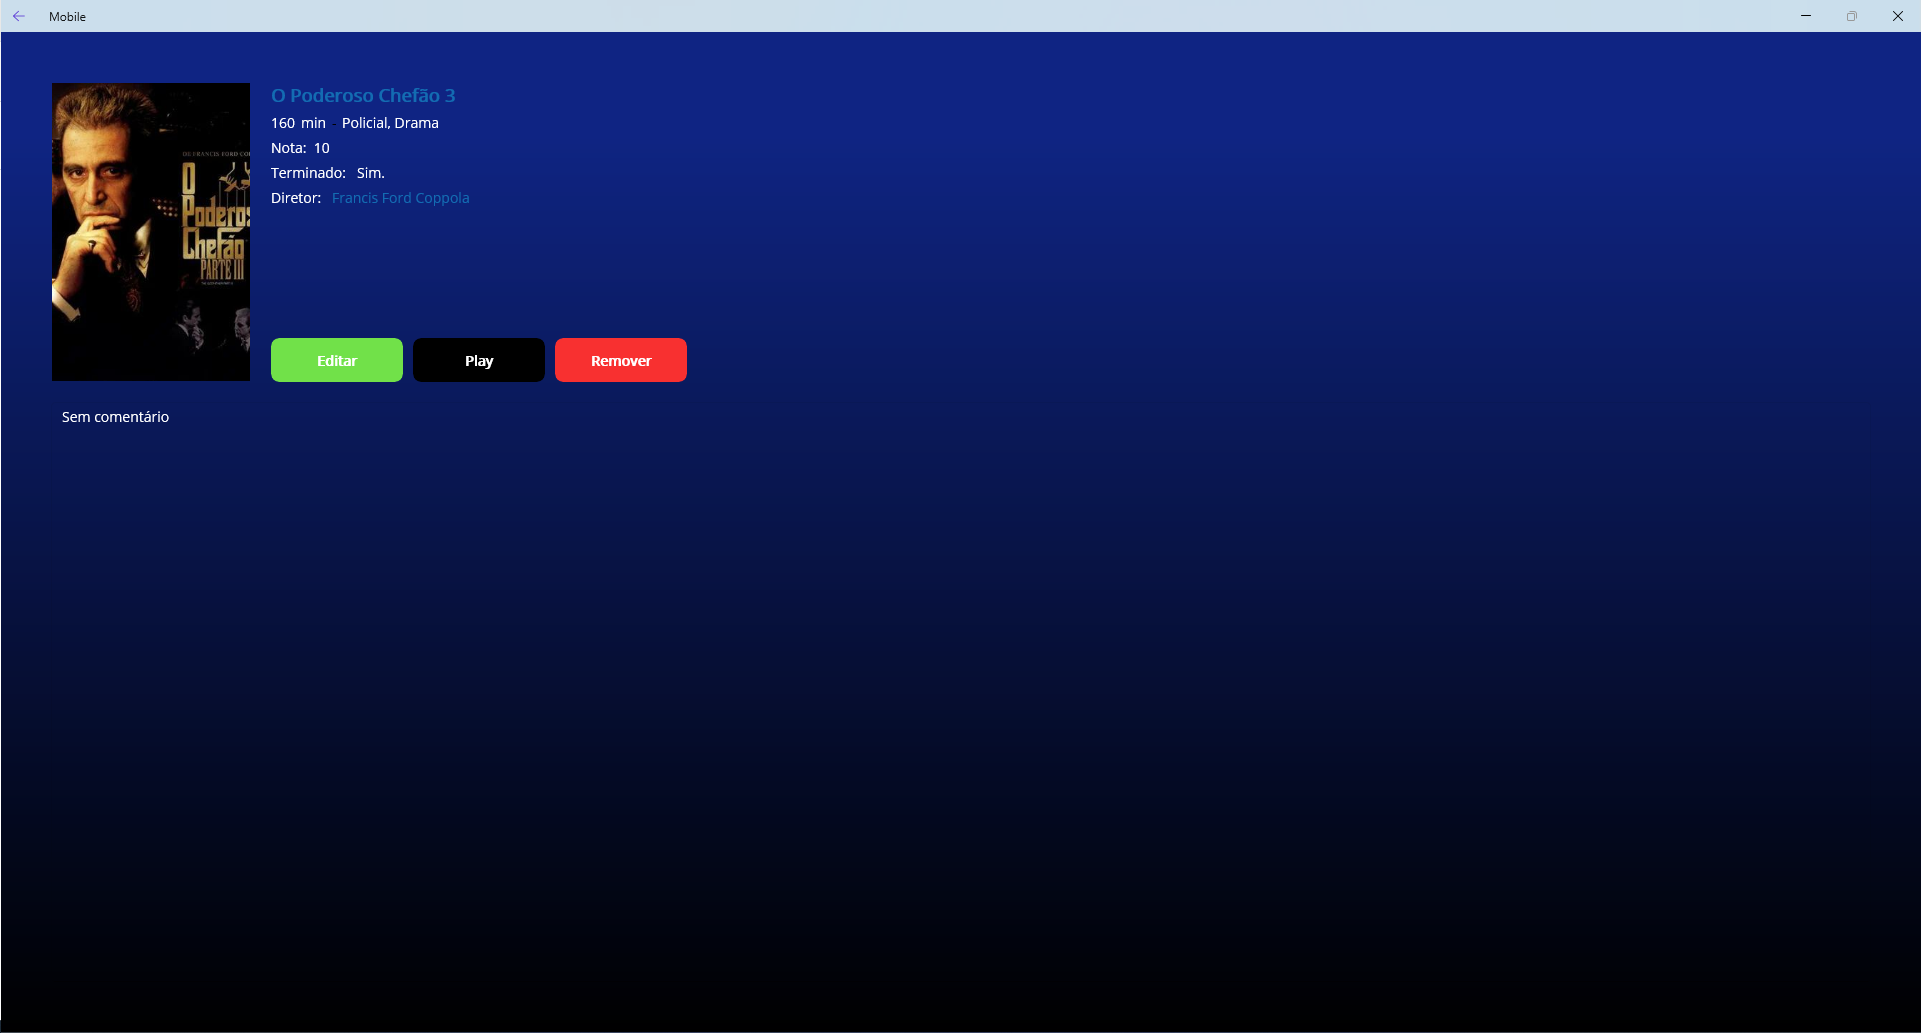
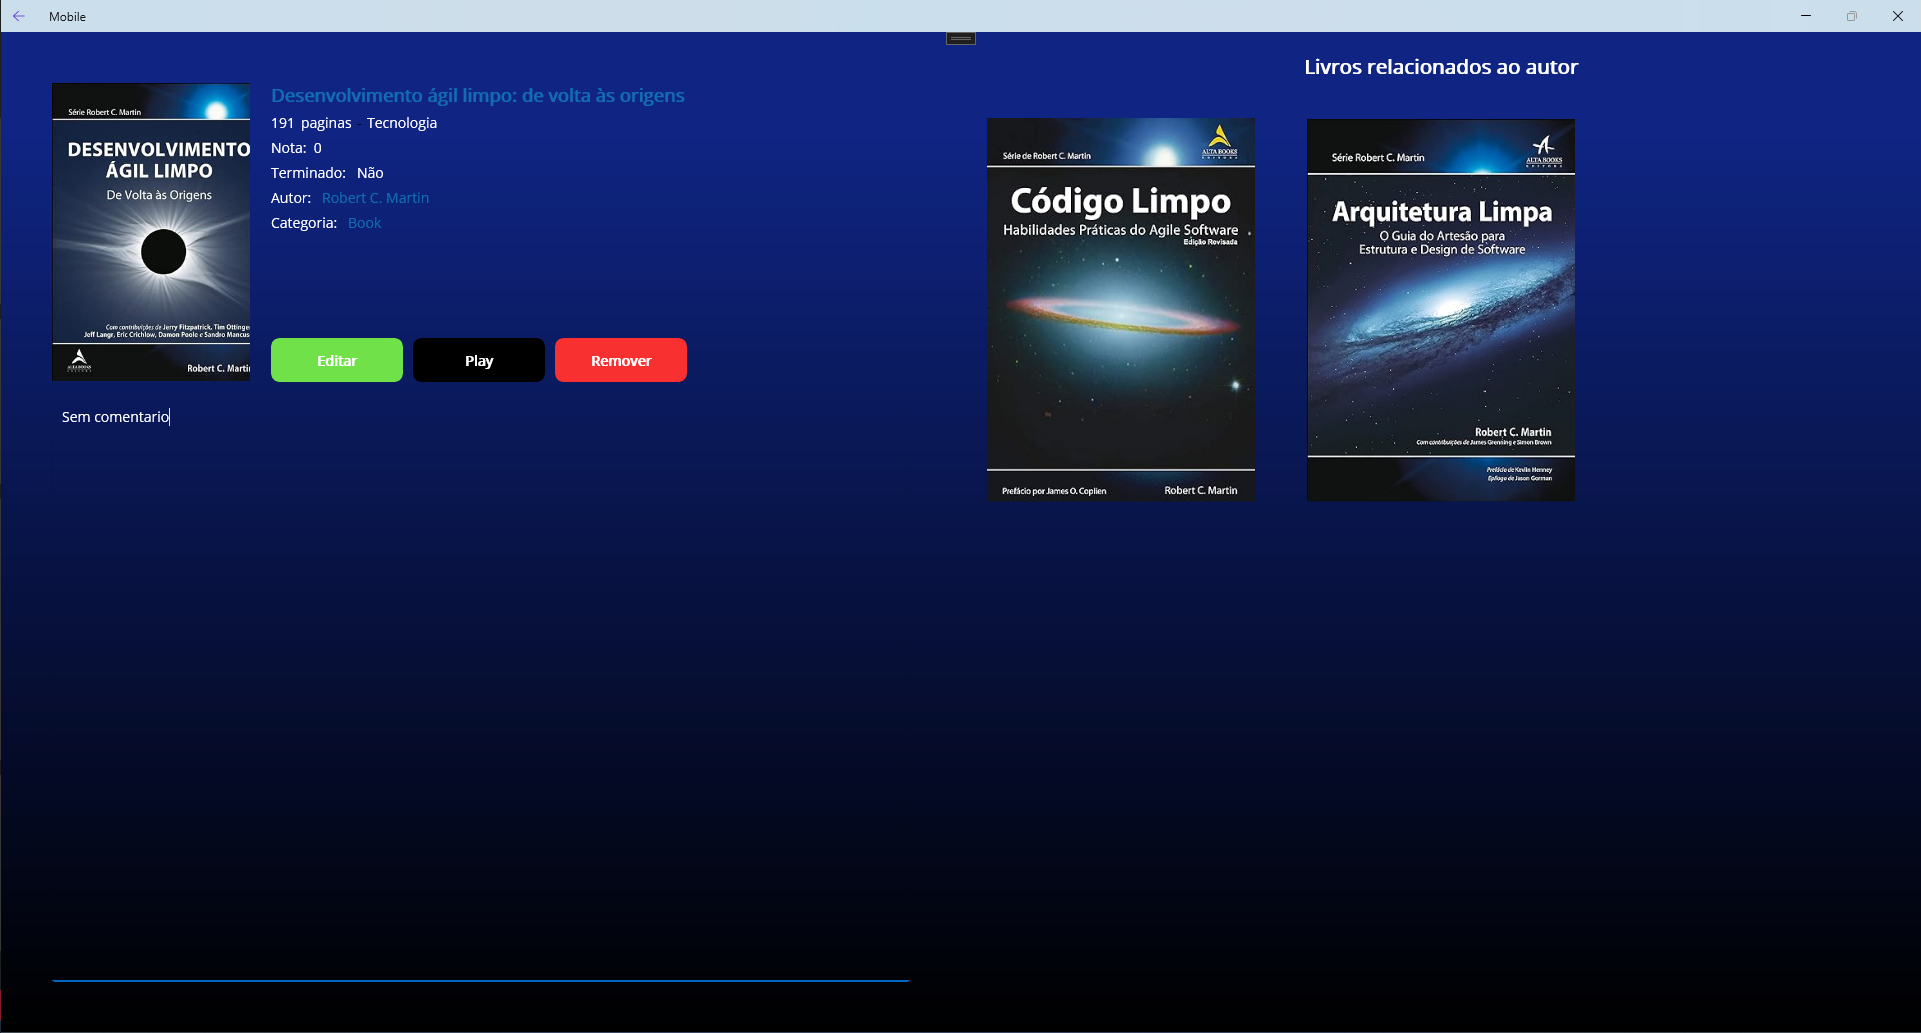
Resumo,
Adicionei a tela de detalhes a lista de livros, filmes e etc..

diff --git a/Mobile/Views/DetailsPage.xaml b/Mobile/Views/DetailsPage.xaml
@@ -15,7 +15,7 @@
         <converters:AuthorValueConverter x:Key="AuthorValueConverter"/>
     </ContentPage.Resources>
     <ScrollView>
-        <Grid ColumnDefinitions="*">
+        <Grid ColumnDefinitions="*,*">
             <Grid.Background>
                 <LinearGradientBrush EndPoint="0,1">
                     <GradientStop Color="#1534BC"
@@ -155,6 +155,36 @@
                        Style="{StaticResource TitleDetalhes}"/>
             </Grid>
 
+            <Grid Grid.Column="1">
+                <CollectionView ItemsSource="{Binding Assessments}">
+                    <CollectionView.ItemsLayout>
+                        <GridItemsLayout Orientation="Vertical" Span="3" VerticalItemSpacing="10"/>
+                    </CollectionView.ItemsLayout>
+                    <CollectionView.Header>
+                        <Label Text="Livros relacionados ao autor"
+                               HorizontalOptions="Center"
+                               Margin="20"
+                               TextColor="White"
+                               FontAttributes="Bold"
+                               FontSize="20"/>
+                    </CollectionView.Header>
+                    <CollectionView.ItemTemplate>
+                        <DataTemplate>
+                            <VerticalStackLayout>
+                                
+                            <Frame WidthRequest="270"
+                                   HeightRequest="400"
+                                   Padding="0"
+                                   BackgroundColor="Transparent"
+                                   BorderColor="Transparent">
+                                <Image Source="{Binding Image}" />
+                            </Frame>
+                            </VerticalStackLayout>
+                        </DataTemplate>
+                    </CollectionView.ItemTemplate>
+                </CollectionView>
+            </Grid>
+
             <Grid IsVisible="{Binding EditIsVisible}"
                   Grid.Column="0" 
                   ColumnDefinitions="250,*" 
@@ -171,8 +201,8 @@
                         VerticalOptions="StartAndExpand"
                         BackgroundColor="Red"
                         >
-       
-                
+
+
                 </Button>
 
                 <Frame Grid.Row="0"

diff --git a/Mobile/ViewModels/DetailsViewModel.cs b/Mobile/ViewModels/DetailsViewModel.cs
@@ -5,15 +5,17 @@ using CommunityToolkit.Mvvm.Messaging;
 using Mobile.Herpels;
 using Mobile.Models;
 using Mobile.Services;
-using Mobile.Services.Interfaces;
 namespace Mobile.ViewModels;
 
 public partial class DetailsViewModel : ObservableObject, IQueryAttributable
 {
-    private readonly Services.AssessmentService _service;
+    private readonly AssessmentService _service;
 
     [ObservableProperty]
     Assessments _assessment = new();
+
+    [ObservableProperty]
+    IEnumerable<Assessments> _assessments;
 
     [ObservableProperty]
     bool _detailsIsVisible, _editIsVisible;
@@ -27,32 +29,43 @@ public partial class DetailsViewModel : ObservableObject, IQueryAttributable
     [ObservableProperty]
     string[] _categories;
 
-    public DetailsViewModel(Services.AssessmentService service)
+    public DetailsViewModel(AssessmentService service)
     {
         Categories = ["Book", "Série", "Movie", "Music"];
         _service = service;
     }
 
-    public void ApplyQueryAttributes(IDictionary<string, object> query)
+    public async void ApplyQueryAttributes(IDictionary<string, object> query)
     {
         try
         {
-
             if (query.Count == 0) return;
             var data = (Assessments)query["Data"];
 
-            DisposeAsyncMemory();
-            DetailsIsVisible = true;
-            EditIsVisible = false;
-            Assessment = data;
-            if (Assessment.Image != "default.png")
-            {
-                Image.Source = ImageSource.FromUri(new Uri(Assessment.Image));
-            }
+            await ConfiguretionData(data);
         }
         catch (Exception ex)
         {
             ex.Message.ToString();
+        }
+    }
+
+    private async Task ConfiguretionData(Assessments data)
+    {
+        var f = await _service.GetAssessmentByName($"assessment/category/{data.Category}/name/{data.Director}");
+
+        List<Assessments> filter = [.. f];
+        filter.RemoveAll(x => x.Id == data.Id);
+        Assessments = filter;
+
+        DisposeAsyncMemory();
+        DetailsIsVisible = true;
+        EditIsVisible = false;
+        Assessment = data;
+
+        if (Assessment.Image != "default.png")
+        {
+            Image = new() { Source = ImageSource.FromUri(new Uri(Assessment.Image)) };
         }
     }
 
@@ -117,7 +130,7 @@ public partial class DetailsViewModel : ObservableObject, IQueryAttributable
             else
             {
                 StringBase64 = await result.OpenReadAsync();
-                Image = new() { Source = ImageSource.FromFile(result.FullPath)};
+                Image = new() { Source = ImageSource.FromFile(result.FullPath) };
             };
 
         }

diff --git a/Mobile/ViewModels/DownloadViewModel.cs b/Mobile/ViewModels/DownloadViewModel.cs
@@ -142,9 +142,9 @@ public partial class DownloadViewModel : ObservableObject
         int row = 2;
         foreach (var assessment in assessments)
         {
-            worksheet.Cell(row, 1).Value = assessment.Id;
-            worksheet.Cell(row, 2).Value = assessment.Category;
-            worksheet.Cell(row, 3).Value = assessment.Name;
+            worksheet.Cell(row, 1).Value = assessment.Name;
+            worksheet.Cell(row, 2).Value = assessment.Assessment;
+            worksheet.Cell(row, 3).Value = assessment.Category;
             worksheet.Cell(row, 4).Value = assessment.Director;
             worksheet.Cell(row, 5).Value = assessment.Image;
             worksheet.Cell(row, 6).Value = assessment.Gender;

diff --git a/Mobile/Services/AssessmentService.cs b/Mobile/Services/AssessmentService.cs
@@ -53,7 +53,7 @@ public class AssessmentService : BaseApiService
 
         return (apiResponse.Total, apiResponse.Datas);
     }
-    public async Task<Assessments> GetAssessmentByName(string query)
+    public async Task<IEnumerable<Assessments>> GetAssessmentByName(string query)
     {
         ApiResponse apiResponse = null;
 
@@ -70,7 +70,7 @@ public class AssessmentService : BaseApiService
             ex.ToString();
         }
 
-        return apiResponse.Data;
+        return apiResponse.Datas;
     }
 
     public async Task<Assessments> GetAssessmentById(int id)
